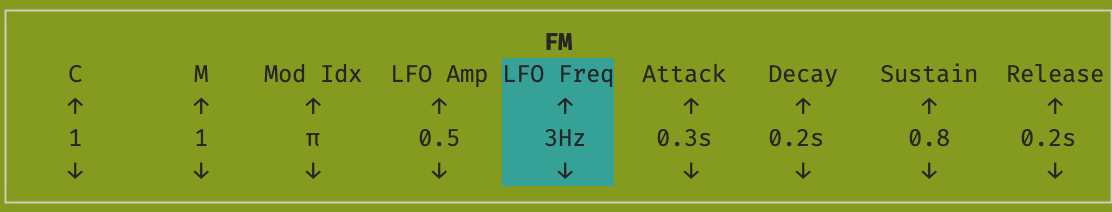
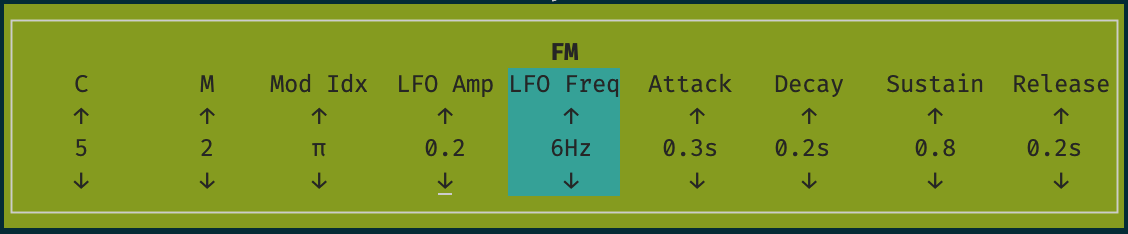
a bit of UI rearrangement; update readme

diff --git a/src/ui.rs b/src/ui.rs
@@ -300,7 +300,20 @@ impl UI {
 impl Widget for &UI {
     fn render(self, area: Rect, buf: &mut Buffer) {
         let title = Line::from(" Terminal Synth ".bold());
-        let instructions = Line::from(vec![" Quit ".into(), "<Ctrl+C> ".red().bold()]);
+        let instructions = Line::from(vec![
+            " Navigate ".into(),
+            "<↑/↓/←/→> ".bold(),
+            " Select Section ".into(),
+            "<Enter> ".bold(),
+            " Select Param ".into(),
+            "<←/→> ".bold(),
+            " Update Param ".into(),
+            "<↑/↓> ".bold(),
+            " Deselect Section ".into(),
+            "<Esc> ".bold(),
+            " Quit ".into(),
+            "<Ctrl+C> ".red().bold(),
+        ]);
         let container = Block::bordered()
             .title(title.centered())
             .title_bottom(instructions.right_aligned())

diff --git a/src/fm_synth_instrument.rs b/src/fm_synth_instrument.rs
@@ -48,10 +48,10 @@ impl FMSynthInstrument {
         );
 
         let mut effects: Vec<Box<dyn Effect>> = Vec::new();
-        effects.push(Box::new(Echo::new(0.0, 0.0)));
         effects.push(Box::new(low_pass::new(200.0, 1.0)));
         effects.push(Box::new(high_pass::new(1000.0, 1.0)));
         effects.push(Box::new(band_pass::new(800.0, 1.0)));
+        effects.push(Box::new(Echo::new(0.0, 0.0)));
 
         FMSynthInstrument {
             voices,

diff --git a/README.md b/README.md
@@ -2,24 +2,26 @@
 
 Basic frequency modulation synthesizer written in Rust, with a terminal UI.
 
-At this time, this is not intended to be a highly usable instrument, rather a playground for learning audio programming/digital signal processing. It only has a range of about an octave and a half, represented on a computer keyboard.
+At this time, this is not intended to be a highly usable instrument, rather a playground for learning audio programming/digital signal processing.
 
-Eventually, it may become a more usable MIDI instrument or evolve into a hardware project.
+Eventually, it may become a more practical instrument or evolve into a hardware project.
 
 ### Running
+
+At this time, MIDI may be used for note events, but not control change events (i.e. you can use MIDI to play, but not yet to change parameters). If you have a MIDI controller, plug it in prior to startup, and it should be automatically found.
 
 Requires [Rust & Cargo](https://doc.rust-lang.org/cargo/getting-started/installation.html)
 
 ```bash
-cargo build
+cargo build # optional
 cargo run
 ```
 
-This will open the FM Synth application in your terminal.
+This will open the FM Synth application in your terminal. The instrument has 5 voices (i.e. 5 notes may be played at once).
 
 ![UI Screenshot](images/ui_screenshot.png)
 
-On the left, there is a map of (computer) keyboard keys laid out like an instrument keyboard, where "e" is A440, "4" is B-flat, "3" is A-flat, etc. The instrument has 5 voices (i.e. 5 keys may be played at once).
+On the left, there is a map of (computer) keyboard keys laid out like an instrument keyboard, where "e" is A440, "4" is B-flat, "3" is A-flat, etc. This can be used to play around with a small range of notes if you don't have a MIDI controller.
 
 On the right are the instrument and effect parameter controls:
 
